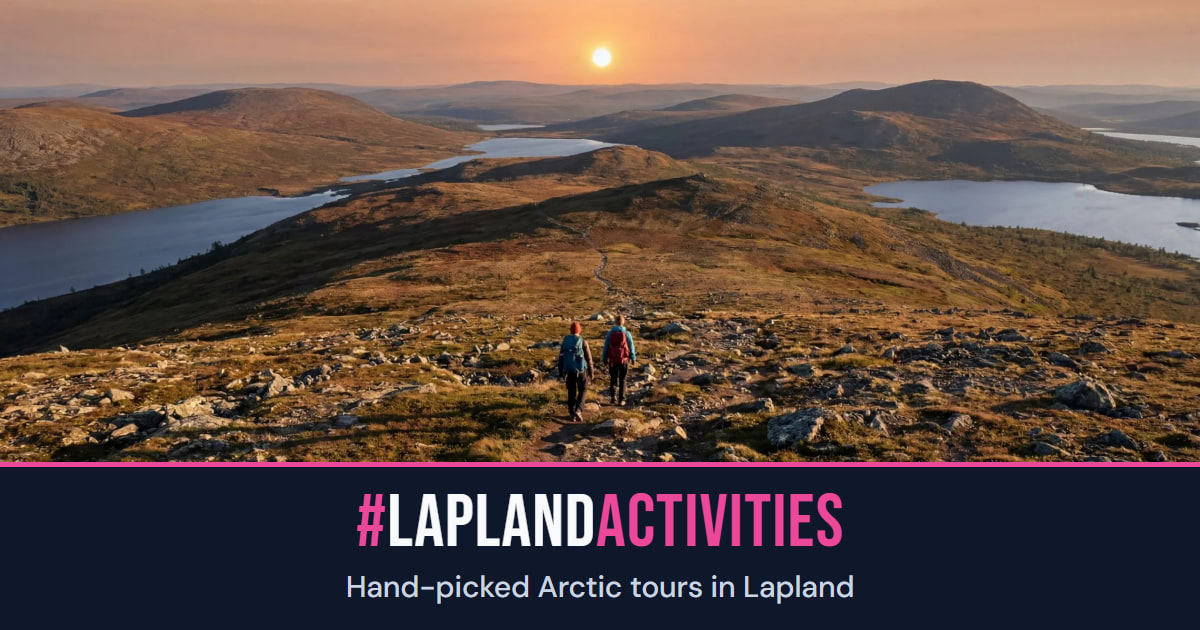
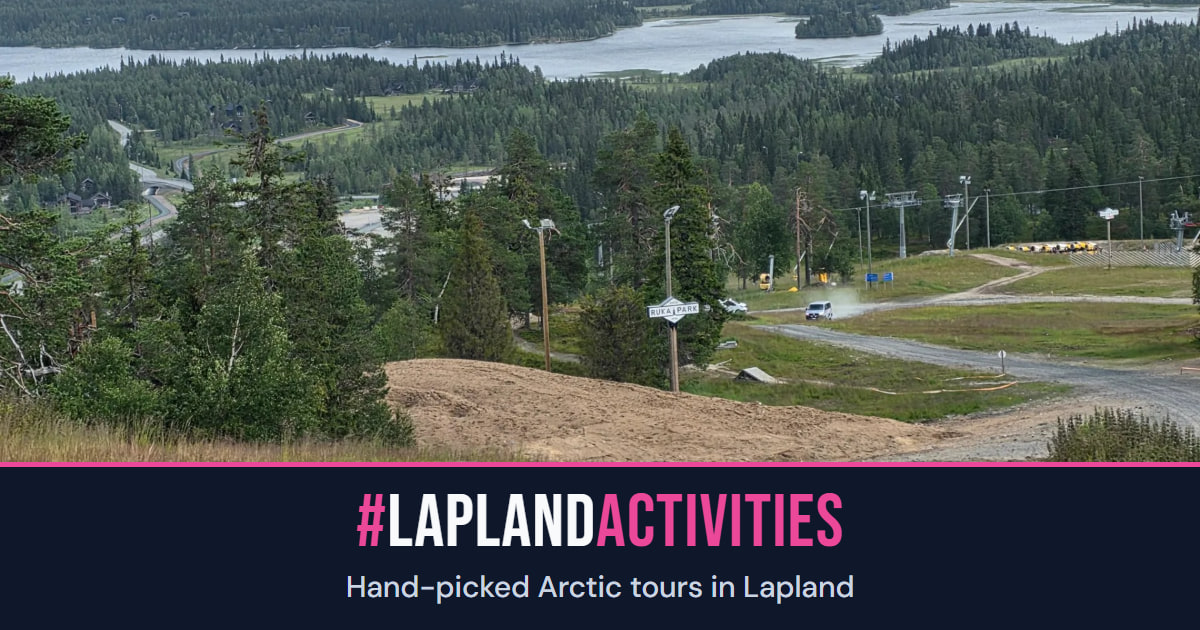
OG-jakokortit oikeasta kesäherosta (Ruka 17.7.2026) ja talvihuskysta (Saija, Commons) — scripts/og 19.9.2026

diff --git a/index.html b/index.html
@@ -196,11 +196,11 @@
     <meta property="og:image:type" content="image/jpeg" />
     <meta property="og:image:width" content="1200" />
     <meta property="og:image:height" content="630" />
-    <meta property="og:image:alt" content="Hikers on a Lapland fjell ridge under the midnight sun. #LAPLANDACTIVITIES" />
+    <meta property="og:image:alt" content="Summer view over the fells from Rukatunturi, Kuusamo. #LAPLANDACTIVITIES" />
     <!-- Twitter card -->
     <meta name="twitter:card" content="summary_large_image" />
     <meta name="twitter:image" content="https://laplandactivities.fi/og.jpg?v=20260905" />
-    <meta name="twitter:image:alt" content="Hikers on a Lapland fjell ridge under the midnight sun. #LAPLANDACTIVITIES" />
+    <meta name="twitter:image:alt" content="Summer view over the fells from Rukatunturi, Kuusamo. #LAPLANDACTIVITIES" />
       <!-- Favicon stack (LV ecosystem unified design) -->
     <link rel="icon" href="/favicon.svg?v=20260626b" type="image/svg+xml" />
     <link rel="alternate icon" href="/favicon.ico?v=20260626b" sizes="32x32" type="image/png" />
